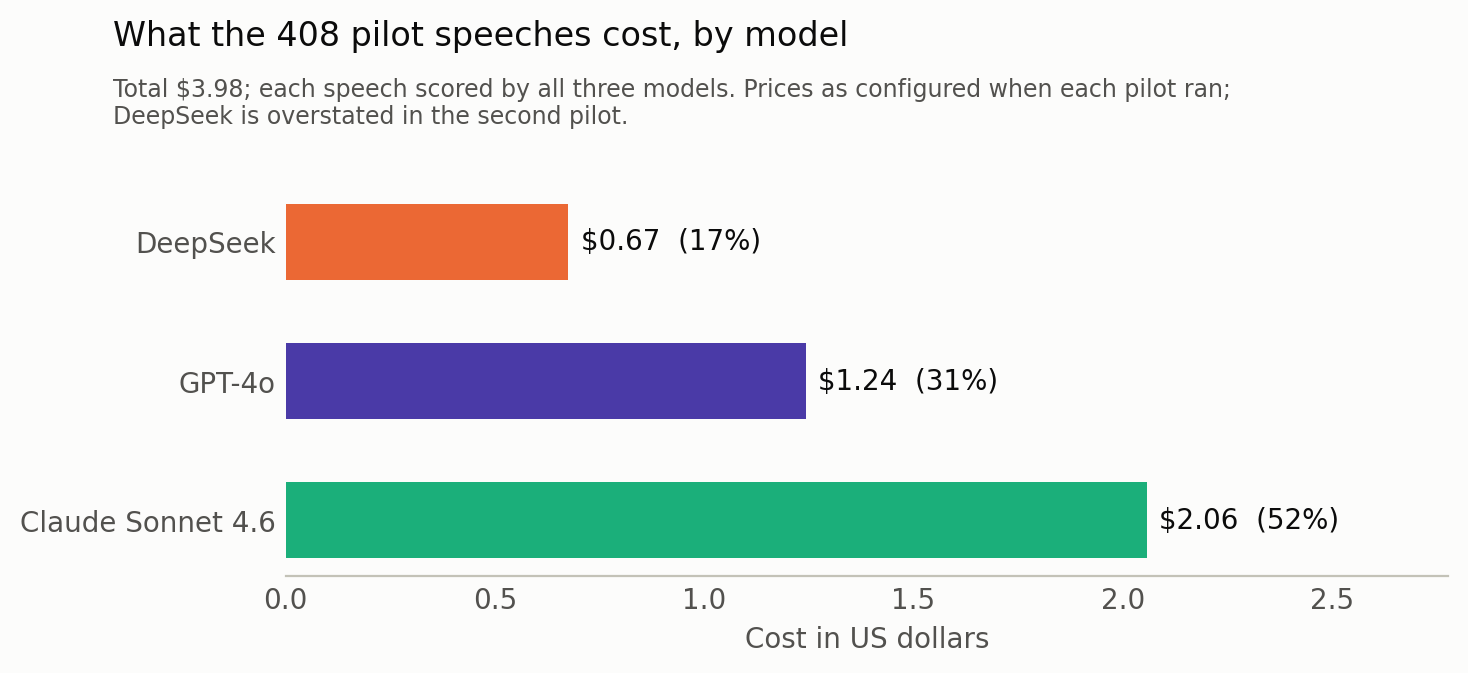
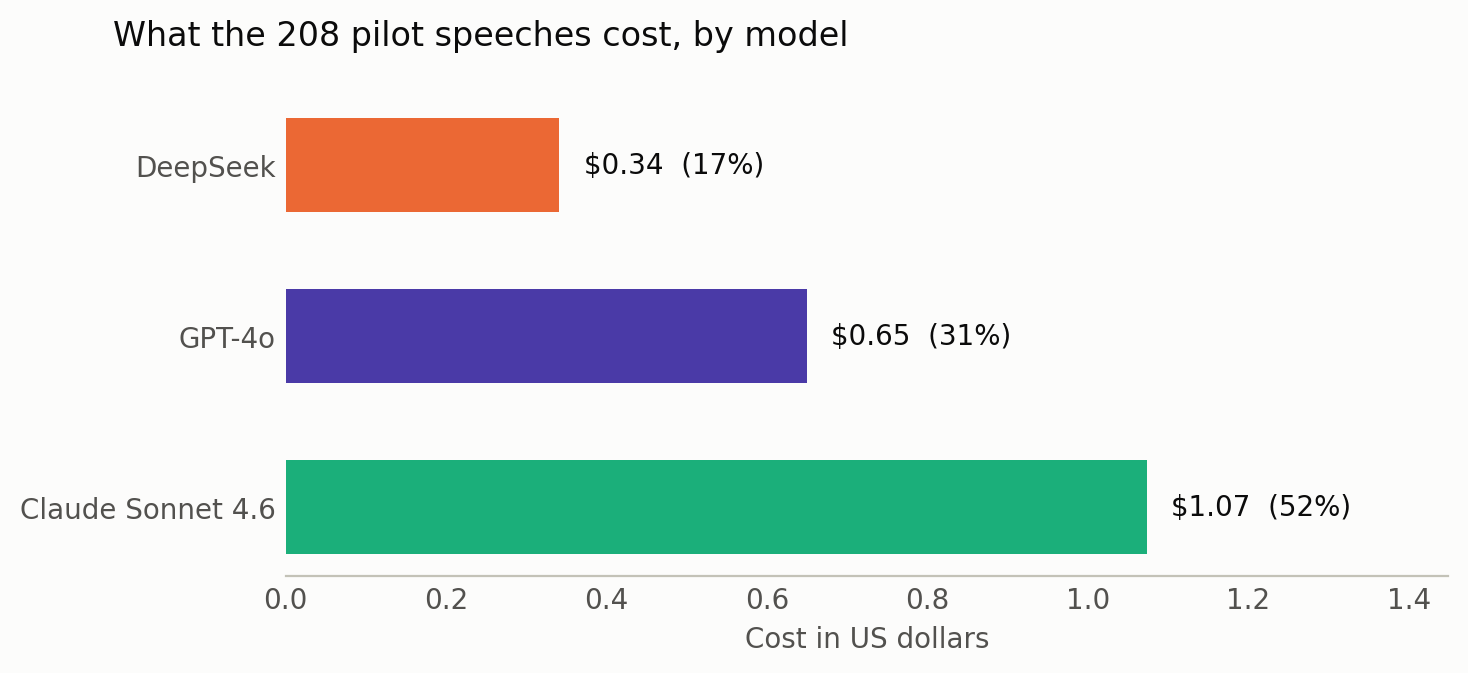
Plot changes to reflect 208 speeches pilot run

diff --git a/code/scripts/plot_pilot_agreement.py b/code/scripts/plot_pilot_agreement.py
@@ -1,7 +1,6 @@
-"""Figure: how closely the three models agree on the 407 pilot speeches all three scored.
+"""Figure: how closely the three models agree on the 208 pilot speeches all three scored.
 
-Pairwise scatter of ideology scores (pilot 1: run 20260923T103556Z, pilot 2:
-20261003T100851Z). Reads the raw per-model scores in results/scores/ (on the
+Pairwise scatter of ideology scores (run 20261003T100851Z). Reads the raw per-model scores in results/scores/ (on the
 model-development branch); makes no API calls.
 
     python code/scripts/plot_pilot_agreement.py [--scores-dir DIR]
@@ -22,7 +21,6 @@ from src.plots import (  # noqa: E402
 )
 
 RUNS = (
-    ("pilot", "20260923T103556Z", {"deepseek-reasoner": "DeepSeek", "gpt-4o-2024-11-20": "GPT-4o", "claude-sonnet-4-6": "Sonnet 4.6"}),
     ("s8", "20261003T100851Z", {"deepseek-reasoner": "DeepSeek", "gpt-4o-2024-11-20": "GPT-4o", "claude-sonnet-4-6": "Sonnet 4.6"}),
 )
 NAMES = ("DeepSeek", "GPT-4o", "Sonnet 4.6")
@@ -46,7 +44,7 @@ for prefix, run, models in RUNS:
             frame = frame.join(part, how="inner")
     frames.append(frame)
 data = pd.concat(frames)
-assert data.index.is_unique, "the two pilots share a speech"
+assert data.index.is_unique
 
 fig, axes = plt.subplots(1, 3, figsize=(13, 4.6), facecolor=SURFACE, sharex=True, sharey=True)
 for ax, (x, y) in zip(axes, itertools.combinations(NAMES, 2)):
@@ -71,8 +69,5 @@ for ax, (x, y) in zip(axes, itertools.combinations(NAMES, 2)):
         ax.spines[side].set_color(BASELINE)
 axes[0].legend(loc="lower right", frameon=False)
 fig.suptitle("The three models score the pilot speeches almost alike", x=0.01, ha="left", color=INK)
-fig.text(0.01, 0.915, f"{len(data)} speeches scored by all three models (pilot 1: 199, pilot 2: 208). "
-         "Line = perfect agreement. Ideology from −1 liberal to +1 conservative. Preliminary.",
-         ha="left", color=INK_SECONDARY, fontsize=9)
-fig.subplots_adjust(top=0.82)
+fig.subplots_adjust(top=0.88)
 print(save_figure(fig, "pilot_model_agreement"))

diff --git a/code/scripts/plot_pilot_costs.py b/code/scripts/plot_pilot_costs.py
@@ -1,7 +1,7 @@
-"""Figure: what the two three-model pilots (P1: 200 speeches, P6: 208) cost per model.
+"""Figure: what the 208-speech three-model pilot (P6, run 20261003T100851Z) cost per model.
 
-Reads only the committed pilot summaries; no API calls. Costs are at the prices
-configured when each pilot ran, so DeepSeek is overstated in P6 (docs/decisions.md M3b).
+Reads only the committed run summary; no API calls. Costs are at the prices
+configured when the pilot ran, so DeepSeek is overstated (docs/decisions.md M3b).
 """
 import json
 import sys
@@ -17,7 +17,7 @@ from src.plots import (  # noqa: E402
 )
 
 METRICS = ROOT / "results" / "metrics"
-RUNS = ("pilot_summary_20260923T103556Z.json", "s8_summary_20261003T100851Z.json")
+RUNS = ("s8_summary_20261003T100851Z.json",)  # the 208-speech run keeps the s8 file prefix
 MODELS = (
     ("deepseek-reasoner", "DeepSeek", MODEL_PALETTE[0]),
     ("gpt-4o-2024-11-20", "GPT-4o", MODEL_PALETTE[1]),
@@ -48,8 +48,5 @@ for side in ("top", "right", "left"):
     ax.spines[side].set_visible(False)
 ax.spines["bottom"].set_color(BASELINE)
 fig.suptitle(f"What the {speeches} pilot speeches cost, by model", x=0.01, ha="left", color=INK)
-fig.text(0.01, 0.89, f"Total ${total:.2f}; each speech scored by all three models. Prices as configured "
-         "when each pilot ran;\nDeepSeek is overstated in the second pilot.",
-         ha="left", va="top", color=INK_SECONDARY, fontsize=8.5)
-fig.subplots_adjust(top=0.72)
+fig.subplots_adjust(top=0.86)
 print(save_figure(fig, "pilot_costs_by_model"), {k: round(v, 3) for k, v in cost.items()}, round(total, 3), speeches)
